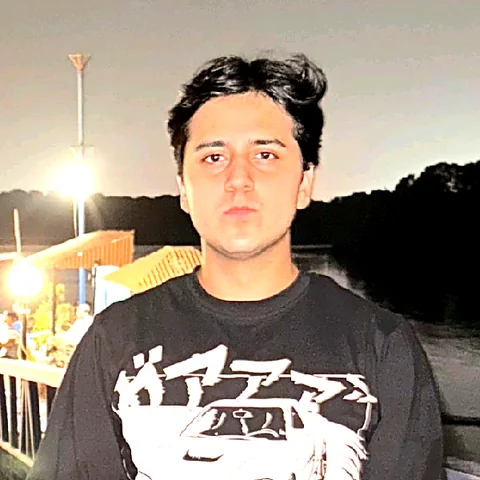
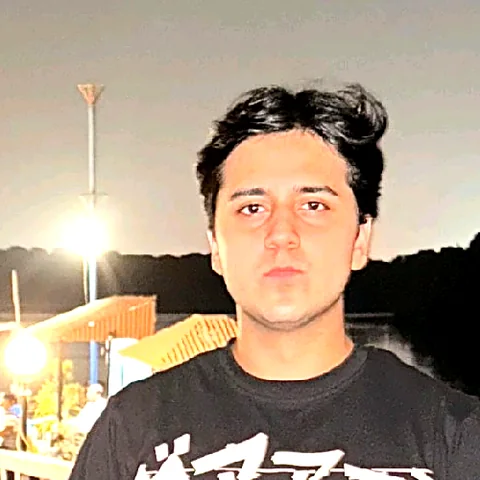
Update contact copy, shift profile photo further right, and use updated CV PDF

diff --git a/index.html b/index.html
@@ -302,8 +302,8 @@
           <h2 class="section-title" id="contact-h">Get in touch</h2>
           <div class="contact-card reveal">
             <p class="contact-text">
-              Working on prompt injection, post-training or agentic RL, or just
-              want to talk research? I am glad to hear from you.
+              Working on LLM post-training, agentic RL, or research in
+              general? I am glad to hear from you.
             </p>
             <div class="contact-actions">
               <a class="btn" href="https://cal.com/haseebasif" target="_blank" rel="noopener">
